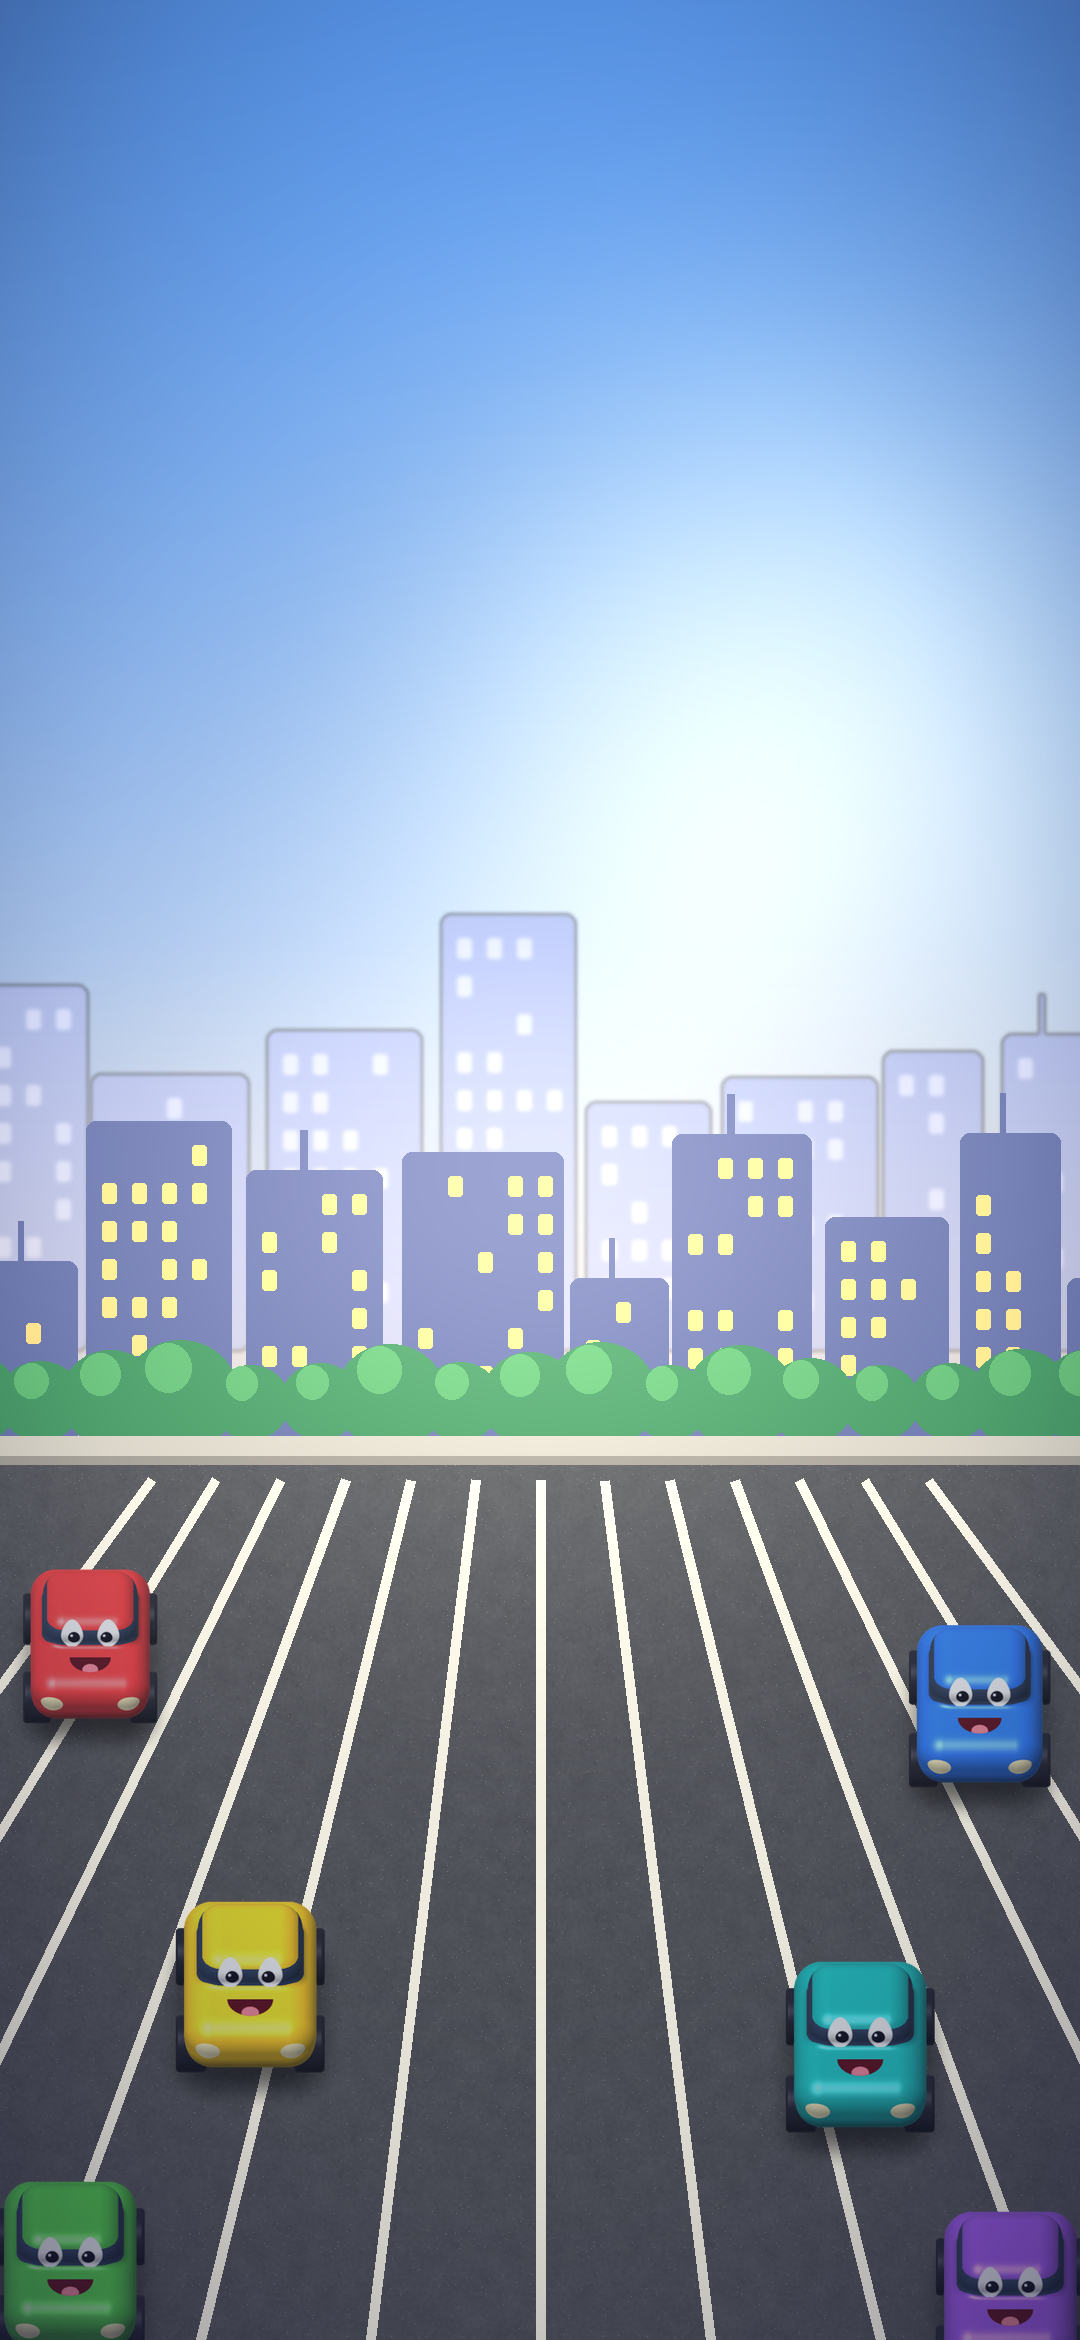
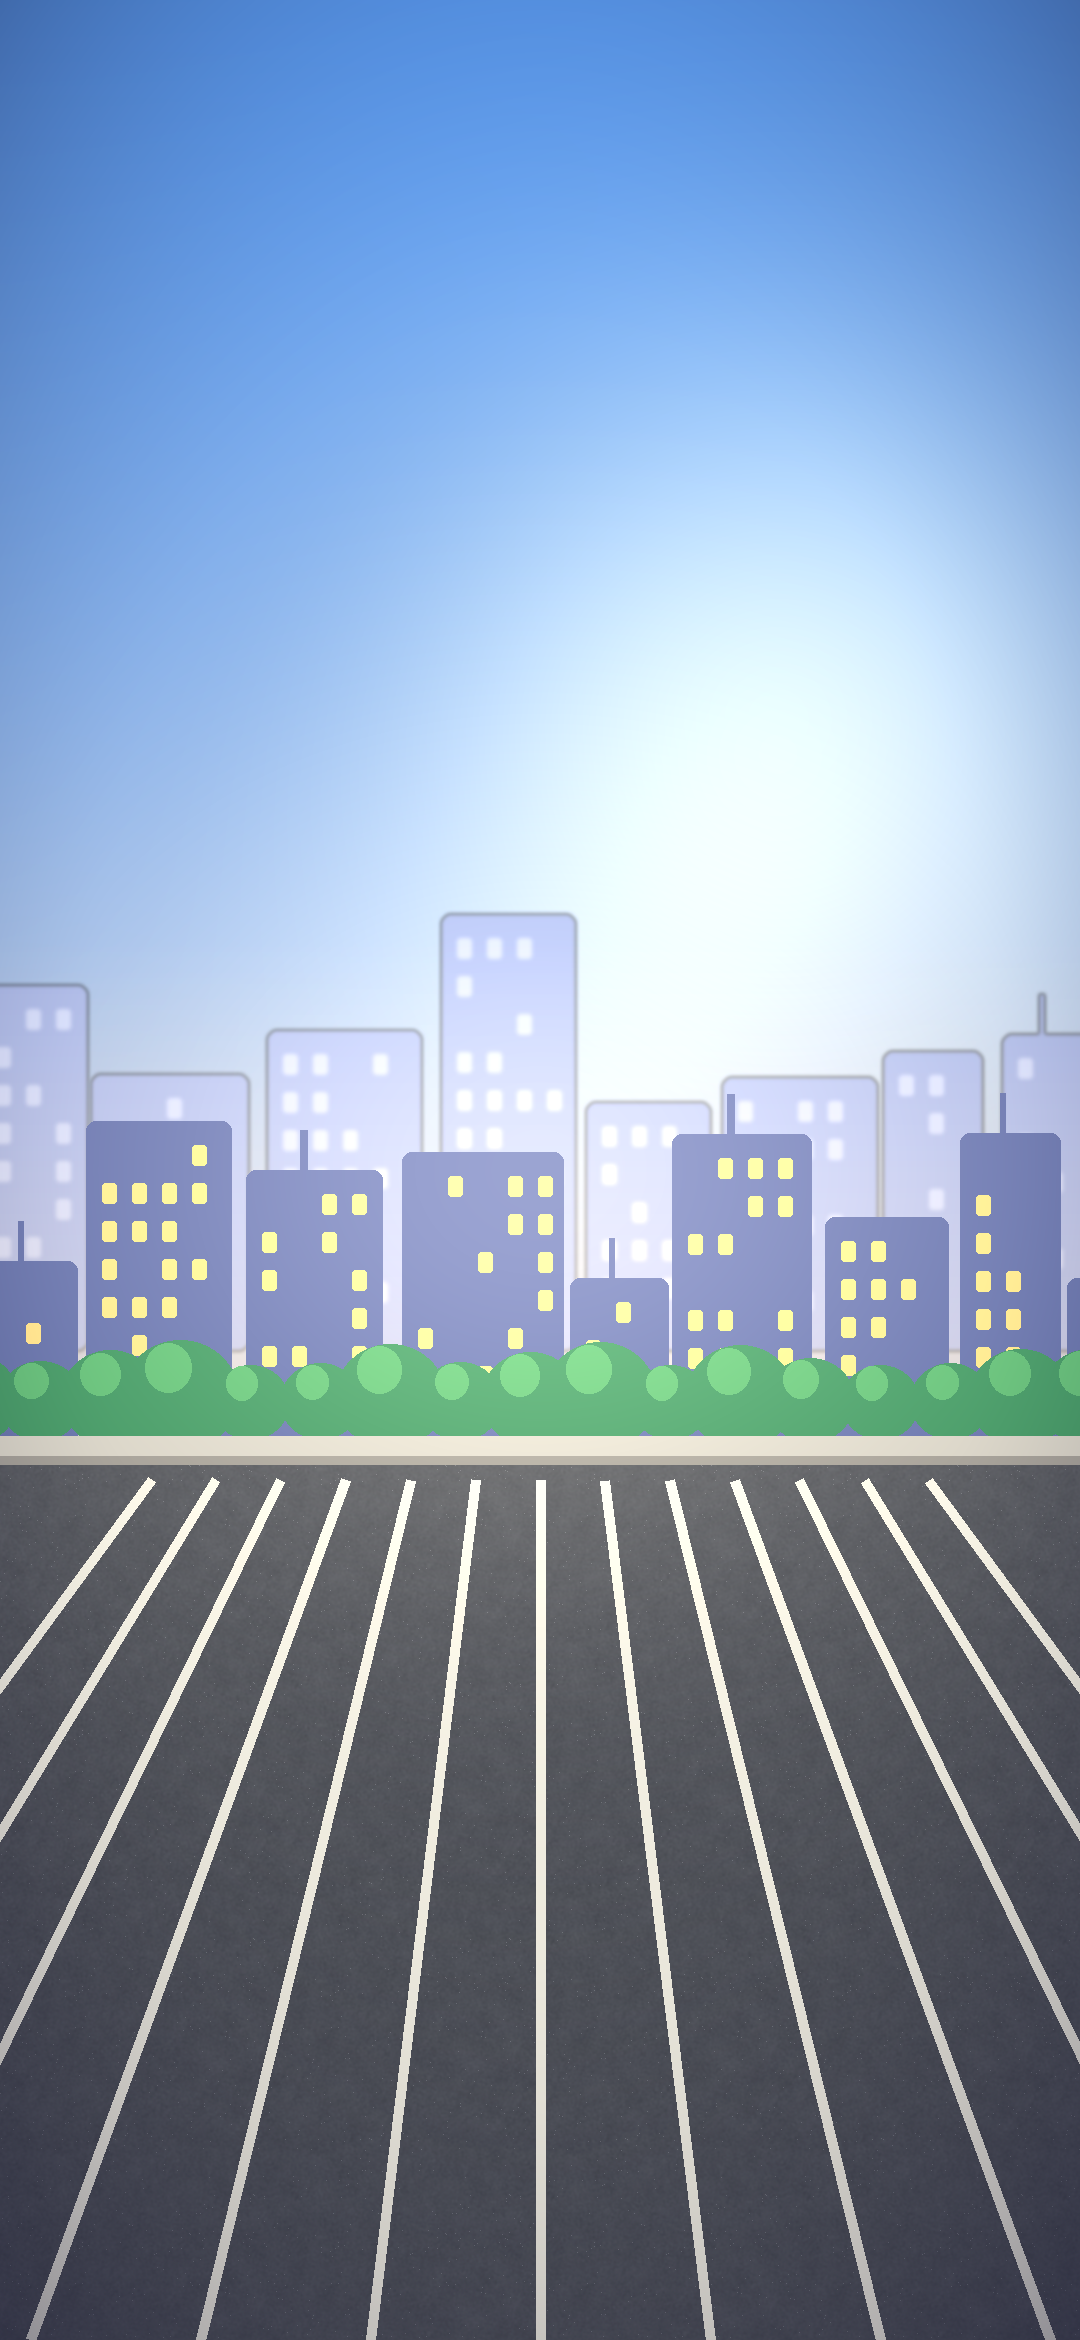
Build 7: coin feedback + coin popup + debug grant, unique levels, finale/confetti in safe bounds, live home cars

diff --git a/Assets/_Project/Scripts/App/CarMatchApp.cs b/Assets/_Project/Scripts/App/CarMatchApp.cs
@@ -94,6 +94,7 @@ namespace CarMatch
             SpriteKit.Warm();
             _ads = AdServices.Create();
             Purse.Boot();
+            DebugCoinGrant();
             LoadCatalog();
             BuildShell();
             ShowHome();
@@ -176,6 +177,7 @@ namespace CarMatch
             ClearScreen();
             Backdrop(true);
             Clouds();
+            HomeCars();
             Hud(0f);
             AudioManager.Music(AudioManager.HomeMusic);
             // Hierarchy: HUD (safe top) > title > mascot on its light pool > tagline > Play.
@@ -619,7 +621,14 @@ namespace CarMatch
         {
             bool afford = Economy.CanAfford(Purse.Wallet, cost);
             var button = MakeButton(new Vector2(x, y), new Vector2(220f, 200f), new Color(0.22f, 0.45f, 0.82f, 1f), name, 40, action, "btn_booster");
-            button.interactable = legal && afford && !_busy && !_driving && _board != null && !_board.Won && !_board.Failed;
+            // Unaffordable boosters stay tappable so the tap can explain itself (shake + toast + coin popup).
+            if (!afford)
+            {
+                button.onClick.RemoveAllListeners();
+                var rt = (RectTransform)button.transform;
+                button.onClick.AddListener(delegate { NotEnoughCoins(rt); });
+            }
+            button.interactable = legal && !_busy && !_driving && _board != null && !_board.Won && !_board.Failed;
             var label = button.GetComponentInChildren<Text>();
             if (label != null) label.rectTransform.offsetMin = new Vector2(0f, 90f);
             // Cost chip: coin icon + price in a small pill on the button face.
@@ -1251,6 +1260,39 @@ namespace CarMatch
             fit.aspectRatio = painted.rect.width / painted.rect.height;
         }
 
+        // Decorative parked cars on the home lot, laid out from the real canvas bottom so they stay
+        // fully visible at 390x844 and taller and keep clear of the Level button (y -342..-598).
+        void HomeCars()
+        {
+            var area = ((RectTransform)_screen).rect;
+            float halfW = area.width > 10f ? area.width * 0.5f : 490f;
+            float bottom = area.height > 10f ? -area.height * 0.5f : -1060f;
+            float size = Mathf.Min(190f, halfW * 0.36f);
+            float rowLow = bottom + size * 0.62f;
+            float rowHigh = Mathf.Min(rowLow + size * 1.15f, -598f - 30f - size * 0.5f);
+            if (rowHigh < rowLow + size * 0.8f) rowHigh = rowLow + size * 0.8f;
+            var spots = new[]
+            {
+                new Vector3(-0.72f, rowHigh, 0), new Vector3(0.72f, rowHigh, 1), new Vector3(-0.24f, rowLow, 2),
+                new Vector3(0.26f, rowLow, 3), new Vector3(-0.78f, rowLow - size * 0.05f, 4), new Vector3(0.78f, rowLow, 5)
+            };
+            var colors = new[] { CarColor.Coral, CarColor.Sky, CarColor.Gold, CarColor.Teal, CarColor.Lime, CarColor.Violet };
+            for (int i = 0; i < spots.Length; i++)
+            {
+                var sp = spots[i];
+                // Keep the low outer pair only on tall screens where there is room between the inner cars and the edge.
+                if (i >= 4 && halfW * 0.52f < size) continue;
+                var sprite = CarFrames.Heading(colors[(int)sp.z], 0) ?? CarArt.For(colors[(int)sp.z], true);
+                if (sprite == null) continue;
+                var rt = Place(_screen, "HomeCar", new Vector2(sp.x * (halfW - size * 0.5f), sp.y), new Vector2(size, size));
+                var img = rt.gameObject.AddComponent<Image>();
+                img.sprite = sprite;
+                img.preserveAspect = true;
+                img.raycastTarget = false;
+                img.color = new Color(0.9f, 0.9f, 0.92f, 1f);
+            }
+        }
+
         // Drifting cloud band over the sky with a little tilt parallax.
         void Clouds()
         {
@@ -1410,7 +1452,7 @@ namespace CarMatch
                 var plusButton = plus.gameObject.AddComponent<Button>();
                 plusButton.transition = Selectable.Transition.None;
                 plus.gameObject.AddComponent<PressSquash>().Sink = 3f;
-                plusButton.onClick.AddListener(OnPlus);
+                plusButton.onClick.AddListener(coins ? (UnityEngine.Events.UnityAction)OpenCoinPopup : OnPlus);
             }
             if (coins) _coinText = text;
             else _livesText = text;
@@ -1419,6 +1461,132 @@ namespace CarMatch
         void OnPlus()
         {
             AudioManager.Play(Sfx.Click);
+        }
+
+        // ---- Coin feedback: shake + toast + a small "how to earn coins" popup (no prices changed). ----
+        RectTransform _coinPopup;
+
+        void NotEnoughCoins(RectTransform source)
+        {
+            AudioManager.Play(Sfx.Blocked);
+#if !UNITY_WEBGL
+            Haptics.Thud();
+#endif
+            if (source != null) StartCoroutine(Shake(source));
+            Toast("Not enough coins");
+            OpenCoinPopup();
+        }
+
+        IEnumerator Shake(RectTransform rt)
+        {
+            var home = rt.anchoredPosition;
+            float t = 0f;
+            while (t < 0.35f && rt != null)
+            {
+                t += Time.unscaledDeltaTime;
+                rt.anchoredPosition = home + new Vector2(Mathf.Sin(t * 60f) * 18f * (1f - t / 0.35f), 0f);
+                yield return null;
+            }
+            if (rt != null) rt.anchoredPosition = home;
+        }
+
+        void Toast(string message)
+        {
+            var rt = Place(_screen, "Toast", new Vector2(0f, 260f), new Vector2(720f, 120f));
+            var img = rt.gameObject.AddComponent<Image>();
+            img.sprite = UiArt.Get("pill") ?? SpriteKit.Round;
+            img.type = Image.Type.Sliced;
+            img.color = new Color(0.08f, 0.09f, 0.16f, 0.92f);
+            img.raycastTarget = false;
+            var text = AddText(rt, message, 46, Cream, TextAnchor.MiddleCenter);
+            text.font = ChunkyFont();
+            text.raycastTarget = false;
+            var group = rt.gameObject.AddComponent<CanvasGroup>();
+            group.blocksRaycasts = false;
+            StartCoroutine(FadeToast(rt, group));
+        }
+
+        IEnumerator FadeToast(RectTransform rt, CanvasGroup group)
+        {
+            float t = 0f;
+            var start = rt.anchoredPosition;
+            while (t < 1.6f && rt != null)
+            {
+                t += Time.unscaledDeltaTime;
+                group.alpha = t < 1.1f ? 1f : 1f - (t - 1.1f) / 0.5f;
+                rt.anchoredPosition = start + new Vector2(0f, t * 30f);
+                yield return null;
+            }
+            if (rt != null) Destroy(rt.gameObject);
+        }
+
+        void OpenCoinPopup()
+        {
+            if (_coinPopup != null) return;
+            var dim = Place(_screen, "CoinPopup", Vector2.zero, new Vector2(1080f, 2400f));
+            var dimImage = dim.gameObject.AddComponent<Image>();
+            dimImage.color = new Color(0f, 0f, 0f, 0.55f);
+            _coinPopup = dim;
+            var panel = Place(dim, "Panel", new Vector2(0f, 40f), new Vector2(860f, 760f));
+            var panelImage = panel.gameObject.AddComponent<Image>();
+            panelImage.sprite = UiArt.Get("pill") ?? SpriteKit.Round;
+            panelImage.type = Image.Type.Sliced;
+            panelImage.color = new Color(0.16f, 0.22f, 0.42f, 0.98f);
+            var icon = Place(panel, "Coin", new Vector2(0f, 270f), new Vector2(150f, 150f));
+            var iconImage = icon.gameObject.AddComponent<Image>();
+            iconImage.sprite = UiArt.Get("icon_coin") ?? SpriteKit.Coin;
+            iconImage.preserveAspect = true;
+            var title = Place(panel, "Title", new Vector2(0f, 150f), new Vector2(800f, 90f));
+            var titleText = AddText(title, "Need more coins?", 60, Cream, TextAnchor.MiddleCenter);
+            titleText.font = ChunkyFont();
+            var body = Place(panel, "Body", new Vector2(0f, 30f), new Vector2(760f, 150f));
+            AddText(body, "Earn " + Economy.WinPay + " coins for every lot you play.\nWatch a short video for bonus coins.", 38, Cream, TextAnchor.MiddleCenter);
+            MakeButton(new Vector2(0f, -130f), new Vector2(620f, 150f), new Color(0.2f, 0.7f, 0.3f, 1f), "Watch ad  +" + Economy.AdCoinReward, 46, OnAdCoins, "btn_green", panel);
+            MakeButton(new Vector2(0f, -290f), new Vector2(360f, 110f), new Color(0.2f, 0.4f, 0.8f, 1f), "Close", 42, CloseCoinPopup, "btn_blue", panel);
+        }
+
+        void CloseCoinPopup()
+        {
+            if (_coinPopup != null) Destroy(_coinPopup.gameObject);
+            _coinPopup = null;
+        }
+
+        void OnAdCoins()
+        {
+            if (_busy) return;
+            StartCoroutine(AdCoins());
+        }
+
+        IEnumerator AdCoins()
+        {
+            _busy = true;
+            bool granted = false;
+            yield return _ads.ShowRewarded("coins", delegate (bool ok) { granted = ok; });
+            _busy = false;
+            CloseCoinPopup();
+            if (!granted)
+            {
+                Toast("No video right now. Try again later");
+                yield break;
+            }
+            Purse.Grant(Economy.AdCoinReward);
+            AudioManager.Play(Sfx.Coin);
+            if (_coinText != null) _coinText.text = Purse.Wallet.Coins.ToString();
+            Toast("+" + Economy.AdCoinReward + " coins");
+            if (_phase == Phase.Play) ShowPlay();
+        }
+
+        // Debug-only coin grant: ?coins=5000 in the page URL. Compiled only into WebGL and development builds,
+        // never into the iOS release build.
+        static void DebugCoinGrant()
+        {
+#if UNITY_WEBGL || DEVELOPMENT_BUILD
+            string url = Application.absoluteURL;
+            if (string.IsNullOrEmpty(url)) return;
+            var m = System.Text.RegularExpressions.Regex.Match(url, @"[?&]coins=(\d{1,7})");
+            int n;
+            if (m.Success && int.TryParse(m.Groups[1].Value, out n) && n > 0) Purse.Grant(n);
+#endif
         }
 
         Text Label(Vector2 pos, Vector2 size, string value, int fontSize, Color color, TextAnchor anchor)

diff --git a/Assets/_Project/Scripts/App/WinShow.cs b/Assets/_Project/Scripts/App/WinShow.cs
@@ -193,7 +193,11 @@ namespace CarMatch
             var catcher = Img(screen, "SkipFinale", null, Vector2.zero, new Vector2(4000f, 4000f), new Color(0f, 0f, 0f, 0.001f));
             catcher.GetComponent<Image>().raycastTarget = true;
             catcher.gameObject.AddComponent<Button>().onClick.AddListener(() => _skip = true);
-            const float cell = 40f;
+            // Fit the letters and the drive-in lanes inside the visible canvas (390x844 and taller included).
+            float halfW = 490f;
+            var srt = screen as RectTransform;
+            if (srt != null && srt.rect.width > 10f) halfW = srt.rect.width * 0.5f;
+            float cell = Mathf.Min(40f, (halfW * 2f * 0.86f) / (16f * 1.0f));
             string[] words = { "LOT", "LOOP" };
             var cars = new System.Collections.Generic.List<RectTransform>();
             var homes = new System.Collections.Generic.List<Vector2>();
@@ -215,7 +219,8 @@ namespace CarMatch
                             var home = new Vector2(-width * 0.5f + (ch * 4 + c) * cell + cell * 0.5f, y0 - r * cell);
                             // Drive in from the side nearest the spot, facing the way they travel (E or W).
                             bool left = home.x < 0f;
-                            var start = new Vector2(left ? -760f : 760f, home.y);
+                            float edge = halfW - cell * 0.9f;
+                            var start = new Vector2(left ? -edge : edge, home.y);
                             var rt = Img(screen, "FinaleCar", CarFrames.Heading(color, left ? 4 : 12) ?? CarArt.For(color, true), start, new Vector2(cell * 1.3f, cell * 1.3f), Color.white);
                             cars.Add(rt);
                             homes.Add(home);
@@ -236,6 +241,9 @@ namespace CarMatch
                     float u = Mathf.Clamp01((t - i * stagger) / drive);
                     float k = 1f - (1f - u) * (1f - u) * (1f - u);
                     cars[i].anchoredPosition = Vector2.Lerp(from[i], homes[i], k);
+                    // Pop in at the safe edge instead of sliding in from off-canvas.
+                    float pop = Mathf.Clamp01(u / 0.2f);
+                    cars[i].localScale = new Vector3(pop, pop, 1f);
                 }
                 yield return null;
             }
@@ -243,6 +251,7 @@ namespace CarMatch
             for (int i = 0; i < cars.Count; i++)
             {
                 cars[i].anchoredPosition = homes[i];
+                cars[i].localScale = Vector3.one;
                 var img = cars[i].GetComponent<Image>();
                 var sprite = CarFrames.Heading((CarColor)(i % 8), 0);
                 if (sprite != null) img.sprite = sprite;
@@ -351,6 +360,9 @@ namespace CarMatch
                 spin[i] = UnityEngine.Random.Range(-540f, 540f);
                 flip[i] = UnityEngine.Random.Range(4f, 10f);
             }
+            float wall = 470f;
+            var srt = screen as RectTransform;
+            if (srt != null && srt.rect.width > 10f) wall = srt.rect.width * 0.5f - 30f;
             float t = 0f;
             while (t < 3.2f)
             {
@@ -363,6 +375,9 @@ namespace CarMatch
                     vel[i] *= 1f - 1.6f * dt;
                     if (vel[i].y < -320f) vel[i].y = -320f;
                     bits[i].anchoredPosition += vel[i] * dt;
+                    // Bounce off the safe side edges so nothing clips at the canvas border.
+                    var bp = bits[i].anchoredPosition;
+                    if (Mathf.Abs(bp.x) > wall) { bp.x = Mathf.Sign(bp.x) * wall; vel[i].x = -vel[i].x * 0.5f; bits[i].anchoredPosition = bp; }
                     bits[i].localRotation = Quaternion.Euler(0f, 0f, spin[i] * t);
                     bits[i].localScale = new Vector3(Mathf.Sin(t * flip[i]), 1f, 1f);
                     if (t > 2.4f)

diff --git a/tools/levels/gen_levels.py b/tools/levels/gen_levels.py
@@ -36,7 +36,8 @@ def make(n,seed):
     pool=[]
     for i in range(k['sets']): pool+= [pal[i%len(pal)]]*3
     # Start grouped, then a growing number of swaps mixes colors apart.
-    for _ in range(k['mix']):
+    # Each re-roll adds a swap so tiny early levels can't repeat an earlier layout.
+    for _ in range(k['mix']+seed):
         a=r.randrange(len(pool)); b=min(len(pool)-1,max(0,a+r.randint(-6,6))); pool[a],pool[b]=pool[b],pool[a]
     lanes=[[] for _ in range(k['lanes'])]
     sides=[]
@@ -76,9 +77,15 @@ def check(levels):
 subprocess.run([DOTNET,'build',os.path.join(ROOT,'tools/SolveCheck'),'-c','Release'],capture_output=True)
 seeds={n:0 for n in range(1,101)}
 levels=[make(n,0) for n in range(1,101)]
-for rnd in range(60):
+def sig(lv): return json.dumps([lv['lanes'],lv.get('sides',[])],sort_keys=True)
+for rnd in range(200):
     res=check(levels)
     bad=[n for n in range(1,101) if res.get(n)!='Winnable']
+    seen=set()
+    for n in range(1,101):  # no two levels share a layout and colors
+        k=sig(levels[n-1])
+        if k in seen and n not in bad: bad.append(n)
+        seen.add(k)
     print('round',rnd,'unsolved',len(bad),bad[:12],flush=True)
     if not bad: break
     for n in bad:

diff --git a/Assets/_Project/Scripts/Puzzle/RuleChecks.cs b/Assets/_Project/Scripts/Puzzle/RuleChecks.cs
@@ -395,6 +395,7 @@ namespace CarMatch
             LivesSpendAndRegen();
             AllLevelsSolvable(json);
             BoostersOnEveryLevel(json);
+            LevelsAreUnique(json);
         }
 
         static Board Tiny(string lanes, string sides = null)
@@ -517,6 +518,20 @@ namespace CarMatch
         static void Ensure(bool ok, string message)
         {
             if (!ok) throw new System.InvalidOperationException(message);
+        }
+
+        // No two levels may share the same layout and colors.
+        public static void LevelsAreUnique(string json)
+        {
+            var seen = new Dictionary<string, int>();
+            foreach (var def in LevelJson.Parse(json))
+            {
+                string key = BoardQuery.Key(def.Board);
+                int other;
+                if (seen.TryGetValue(key, out other))
+                    throw new System.InvalidOperationException("level " + def.Number + " repeats level " + other);
+                seen[key] = def.Number;
+            }
         }
     }
 }

diff --git a/tools/art/render_ui.py b/tools/art/render_ui.py
@@ -195,7 +195,8 @@ def backdrop(W=1080,Hh=2340):
     for i in range(-6,7):
         x0=W/2+i*170; t0=0.06; 
         xa=vx+(x0-vx)*((lotTop+30-vy)/(Hh-vy)); d.line([(xa,lotTop+30),(x0,Hh)],fill=(235,232,220,200),width=10)
-    for c,(xx,yy,sc) in zip(['red','blue','yellow','teal','green','purple'],[(90,1640,0.9),(980,1700,0.95),(250,1980,1.0),(860,2040,1.0),(70,2260,1.0),(1010,2290,1.0)]):
+    # Decorative cars are now live UI on the home screen (placed for the real safe area), not painted in.
+    for c,(xx,yy,sc) in zip([],[(90,1640,0.9),(980,1700,0.95),(250,1980,1.0),(860,2040,1.0),(70,2260,1.0),(1010,2290,1.0)]):
         p=os.path.join(ROOT,f'Assets/_Project/Art/Cars/car_{c}_open.png')
         if os.path.exists(p):
             car=Image.open(p).convert('RGBA'); car=car.resize((int(260*sc),int(260*sc)),Image.LANCZOS)

diff --git a/Assets/_Project/Scripts/Puzzle/Economy.cs b/Assets/_Project/Scripts/Puzzle/Economy.cs
@@ -20,6 +20,8 @@ namespace CarMatch
         public const int MaxLives = 5;
         public const int LifeRegenSeconds = 20 * 60;
         public const int StartCoins = 400;
+        // Rewarded-video coin bonus. Placeholder equal to one win's pay; Brandon to set the real number.
+        public const int AdCoinReward = WinPay;
 
         public static int Pay(bool won) => won ? WinPay : FailPay;
 

diff --git a/Assets/_Project/Scripts/Editor/Tests/LotRulesTests.cs b/Assets/_Project/Scripts/Editor/Tests/LotRulesTests.cs
@@ -96,6 +96,12 @@ namespace CarMatch.Tests
         }
 
         [Test]
+        public void Levels_NoTwoShareALayout()
+        {
+            RuleChecks.LevelsAreUnique(Json());
+        }
+
+        [Test]
         public void Eyes_OpenOnlyWhenTheExitIsClear()
         {
             RuleChecks.OpenEyesOnlyOnAClearExit();
